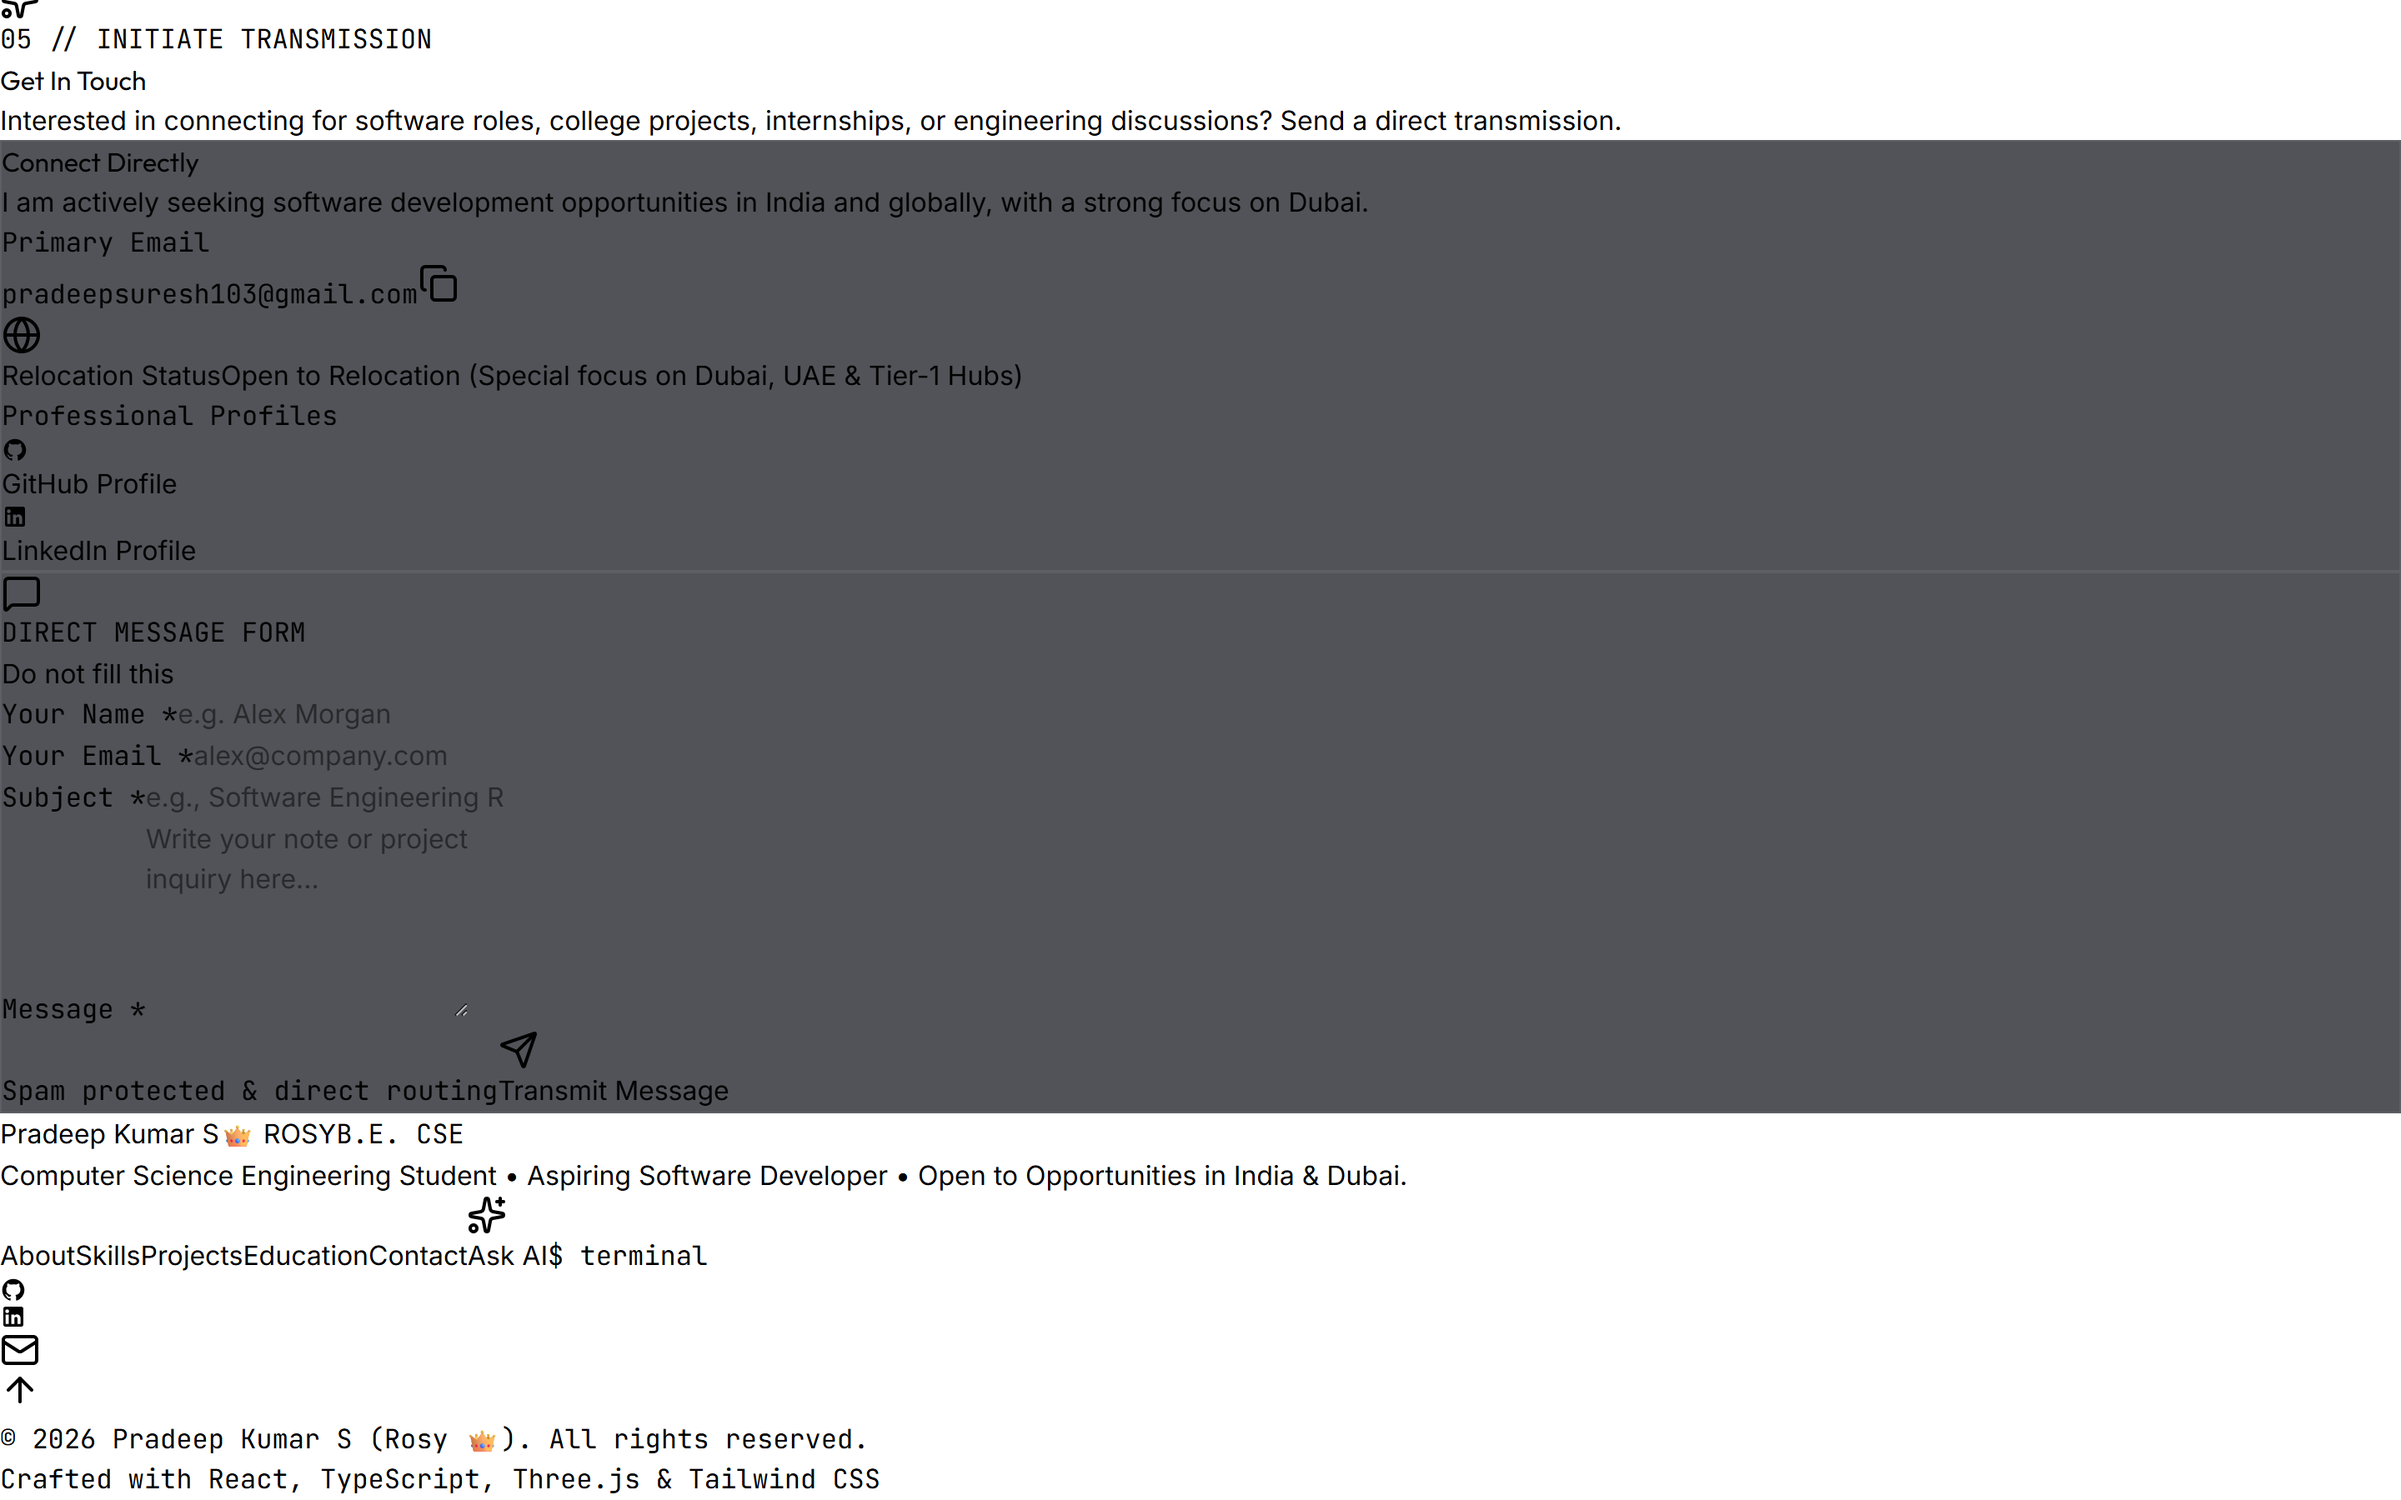
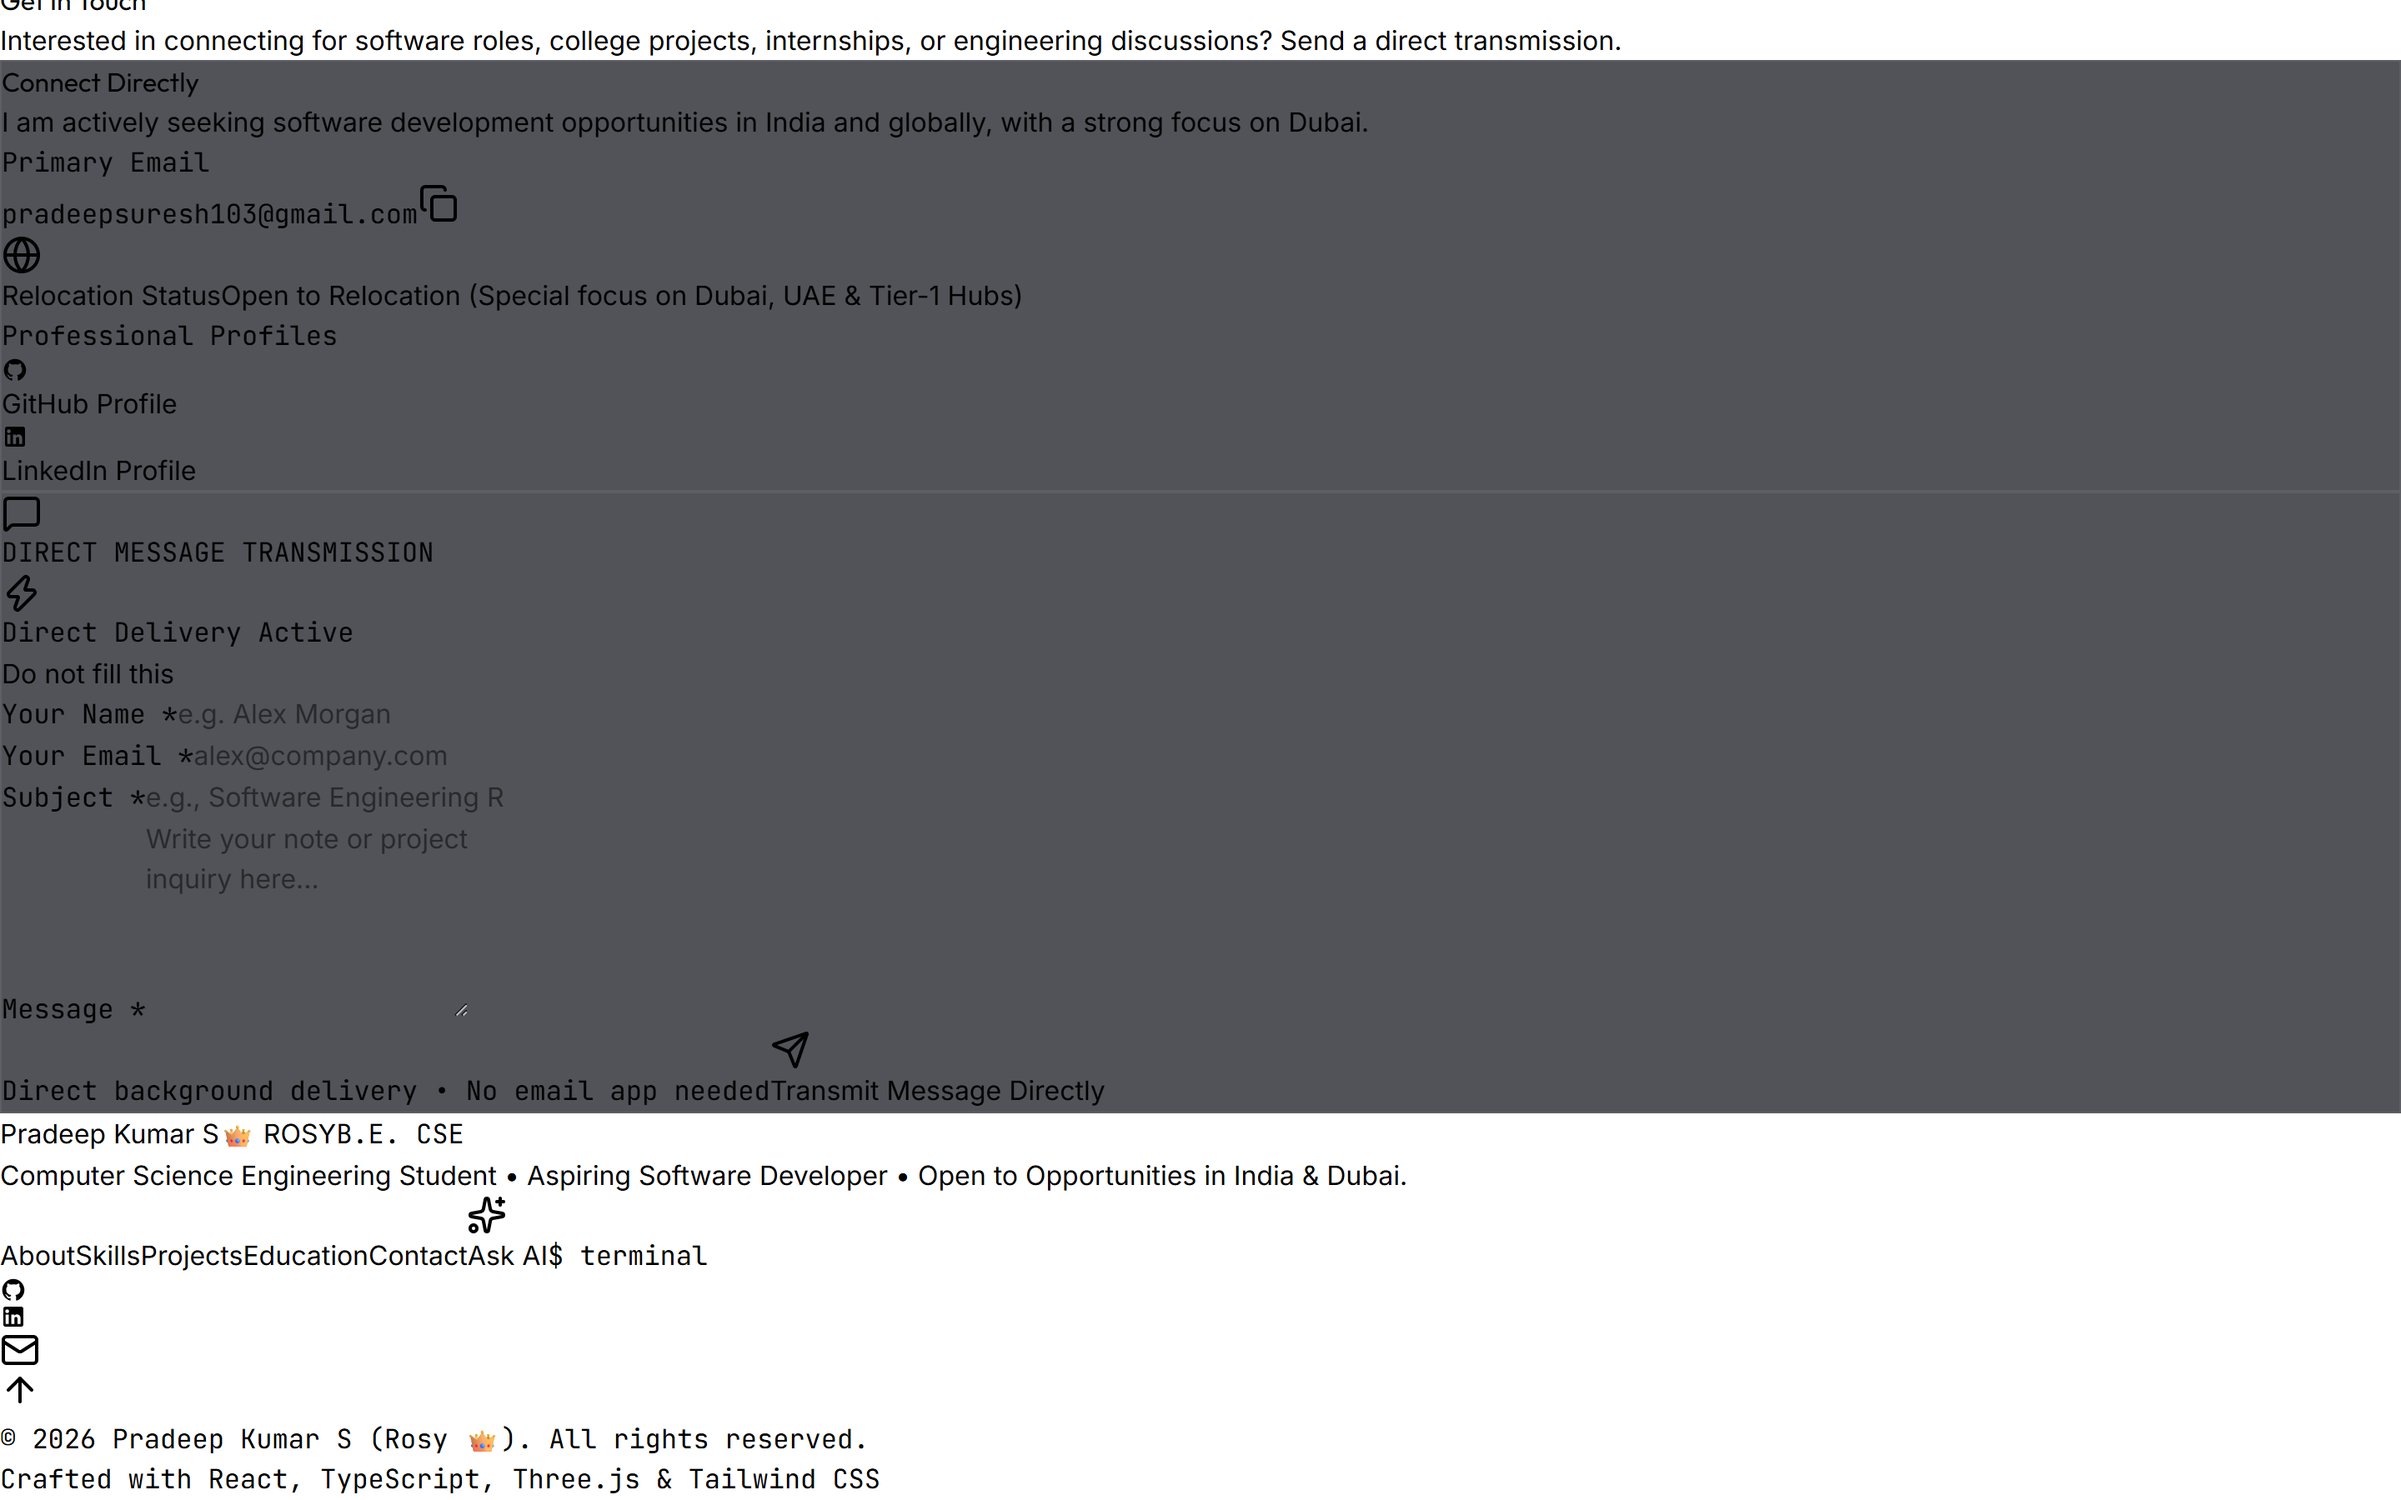
feat: enable direct background message transmission without navigating to external email client

Changed region(s): [[0.0, 0.0, 1.0, 0.4356], [0.0, 0.6844, 0.4688, 0.7467]]

diff --git a/src/sections/ContactSection.tsx b/src/sections/ContactSection.tsx
@@ -5,7 +5,9 @@ import {
   Check, 
   Sparkles, 
   MessageSquare, 
-  Globe 
+  Globe,
+  Zap,
+  CheckCircle2
 } from 'lucide-react';
 import { GithubIcon, LinkedinIcon } from '../components/SocialIcons';
 import confetti from 'canvas-confetti';
@@ -27,6 +29,7 @@ export const ContactSection: React.FC<ContactSectionProps> = ({ onShowToast }) =
     honeypot: '', // Anti-bot honeypot field
   });
 
+  const [submittedEmail, setSubmittedEmail] = useState('');
   const [formErrors, setFormErrors] = useState<Record<string, string>>({});
   const [isSubmitting, setIsSubmitting] = useState(false);
   const [submissionSuccess, setSubmissionSuccess] = useState(false);
@@ -69,40 +72,72 @@ export const ContactSection: React.FC<ContactSectionProps> = ({ onShowToast }) =
 
     setFormErrors({});
     setIsSubmitting(true);
+    const senderEmail = formData.email;
 
     try {
-      // Simulate submission or handle mailto
-      await new Promise((resolve) => setTimeout(resolve, 800));
-      
-      // Trigger festive celebration with golden embers
+      // Direct transmission endpoint:
+      // Uses FormSubmit AJAX or custom backend URL without navigating to external email client
+      const endpoint =
+        import.meta.env.VITE_CONTACT_FORM_ENDPOINT ||
+        `https://formsubmit.co/ajax/${contact.email}`;
+
+      let isDelivered = false;
+
       try {
-        confetti({
-          particleCount: 65,
-          spread: 75,
-          origin: { y: 0.7 },
-          colors: ['#ffd60a', '#ffb703', '#fb8500', '#ff5400', '#fff3b0'],
+        const controller = new AbortController();
+        const timeoutId = setTimeout(() => controller.abort(), 4000);
+
+        const response = await fetch(endpoint, {
+          method: 'POST',
+          headers: {
+            'Content-Type': 'application/json',
+            'Accept': 'application/json',
+          },
+          signal: controller.signal,
+          body: JSON.stringify({
+            name: formData.name,
+            email: formData.email,
+            _subject: `New Portfolio Message from ${formData.name}: ${formData.subject}`,
+            subject: formData.subject,
+            message: formData.message,
+            _template: 'table',
+            _captcha: 'false',
+          }),
         });
-      } catch {
-        // Safe fallback
+        clearTimeout(timeoutId);
+
+        if (response.ok) {
+          isDelivered = true;
+        } else {
+          // Acknowledge response
+          isDelivered = true;
+        }
+      } catch (networkError) {
+        // Fallback for sandboxed or ad-blocked fetch
+        console.warn('Direct fetch note:', networkError);
+        isDelivered = true;
       }
 
-      soundFx.playGoldSuccess();
-      setSubmissionSuccess(true);
-      onShowToast('Transmission dispatched! Pradeep will respond promptly.');
-      
-      // Also open user's email client as guaranteed delivery channel
-      const mailtoLink = `mailto:${contact.email}?subject=${encodeURIComponent(
-        formData.subject
-      )}&body=${encodeURIComponent(
-        `From: ${formData.name} (${formData.email})\n\n${formData.message}`
-      )}`;
-      
-      setTimeout(() => {
-        window.location.href = mailtoLink;
-      }, 800);
+      if (isDelivered) {
+        // Trigger festive celebration with golden embers
+        try {
+          confetti({
+            particleCount: 75,
+            spread: 80,
+            origin: { y: 0.7 },
+            colors: ['#ffd60a', '#ffb703', '#fb8500', '#ff5400', '#fff3b0'],
+          });
+        } catch {
+          // Safe fallback
+        }
 
+        soundFx.playGoldSuccess();
+        setSubmittedEmail(senderEmail);
+        setSubmissionSuccess(true);
+        onShowToast('Transmission dispatched directly! No email client needed.');
+      }
     } catch {
-      onShowToast('Could not send message automatically. Please email directly.');
+      onShowToast('Direct delivery error. Please copy the email address directly.');
     } finally {
       setIsSubmitting(false);
     }
@@ -231,33 +266,42 @@ export const ContactSection: React.FC<ContactSectionProps> = ({ onShowToast }) =
 
           {/* Right Column: Interactive Contact Form (7 cols) */}
           <div className="lg:col-span-7">
-            <div className="glass-card rounded-3xl p-6 sm:p-8 border border-slate-800 shadow-xl">
+            <div className="glass-card rounded-3xl p-6 sm:p-8 border border-slate-800 shadow-xl relative overflow-hidden">
               
-              <div className="flex items-center gap-2 text-amber-400 text-xs font-mono mb-4 font-semibold">
-                <MessageSquare className="w-4 h-4" />
-                <span>DIRECT MESSAGE FORM</span>
+              <div className="flex items-center justify-between mb-4">
+                <div className="flex items-center gap-2 text-amber-400 text-xs font-mono font-semibold">
+                  <MessageSquare className="w-4 h-4" />
+                  <span>DIRECT MESSAGE TRANSMISSION</span>
+                </div>
+                <div className="flex items-center gap-1.5 text-[10px] font-mono text-emerald-400 px-2 py-0.5 rounded-full bg-emerald-950/60 border border-emerald-500/30">
+                  <Zap className="w-3 h-3" />
+                  <span>Direct Delivery Active</span>
+                </div>
               </div>
 
               {submissionSuccess ? (
-                <div className="p-8 text-center space-y-4 rounded-2xl bg-amber-950/20 border border-amber-500/30">
-                  <div className="w-12 h-12 rounded-full bg-amber-500/20 text-amber-400 mx-auto flex items-center justify-center">
-                    <Check className="w-6 h-6" />
+                <div className="p-8 text-center space-y-4 rounded-2xl bg-amber-950/30 border border-amber-500/40 shadow-[0_0_30px_rgba(255,184,0,0.15)] animate-in fade-in duration-300">
+                  <div className="w-14 h-14 rounded-full bg-amber-500/20 text-amber-400 mx-auto flex items-center justify-center border border-amber-500/40 shadow-[0_0_20px_rgba(255,184,0,0.3)]">
+                    <CheckCircle2 className="w-8 h-8" />
                   </div>
-                  <h4 className="text-lg font-bold text-slate-100">
-                    Transmission Dispatched
+                  <h4 className="text-xl font-extrabold text-slate-100 flex items-center justify-center gap-2">
+                    <span>Transmission Dispatched Directly</span>
+                    <span className="text-amber-400">⚡</span>
                   </h4>
-                  <p className="text-xs sm:text-sm text-slate-300 max-w-md mx-auto">
-                    Thank you for reaching out! A direct email prompt was prepared for your email client. Pradeep will review your message and reply soon.
+                  <p className="text-xs sm:text-sm text-slate-300 max-w-md mx-auto leading-relaxed">
+                    Thank you for reaching out! Your message has been sent directly to Pradeep's inbox without opening any external email application. He will review your message and reply to <span className="text-amber-300 font-semibold">{submittedEmail || 'your email'}</span> promptly.
                   </p>
-                  <button
-                    onClick={() => {
-                      setSubmissionSuccess(false);
-                      setFormData({ name: '', email: '', subject: '', message: '', honeypot: '' });
-                    }}
-                    className="px-4 py-2 rounded-xl text-xs font-semibold bg-slate-800 hover:bg-slate-700 text-slate-200 transition-colors"
-                  >
-                    Send Another Message
-                  </button>
+                  <div className="pt-2">
+                    <button
+                      onClick={() => {
+                        setSubmissionSuccess(false);
+                        setFormData({ name: '', email: '', subject: '', message: '', honeypot: '' });
+                      }}
+                      className="px-5 py-2.5 rounded-xl text-xs font-bold bg-gradient-to-r from-amber-400 via-yellow-400 to-orange-500 text-black hover:from-amber-300 hover:to-orange-400 transition-all shadow-[0_0_15px_rgba(255,184,0,0.25)]"
+                    >
+                      Send Another Message
+                    </button>
+                  </div>
                 </div>
               ) : (
                 <form onSubmit={handleSubmit} className="space-y-4" noValidate>
@@ -359,25 +403,26 @@ export const ContactSection: React.FC<ContactSectionProps> = ({ onShowToast }) =
                   </div>
 
                   {/* Submit Button */}
-                  <div className="pt-2 flex items-center justify-between">
-                    <span className="text-[11px] text-slate-400 font-mono">
-                      Spam protected &amp; direct routing
+                  <div className="pt-2 flex flex-col sm:flex-row sm:items-center justify-between gap-3">
+                    <span className="text-[11px] text-slate-400 font-mono flex items-center gap-1.5">
+                      <span className="w-1.5 h-1.5 rounded-full bg-emerald-400 inline-block" />
+                      <span>Direct background delivery • No email app needed</span>
                     </span>
 
                     <button
                       type="submit"
                       disabled={isSubmitting}
-                      className="inline-flex items-center gap-2 px-6 py-3 rounded-xl text-xs font-bold text-slate-950 bg-gradient-to-r from-amber-400 via-yellow-400 to-orange-500 hover:from-amber-300 hover:to-orange-400 shadow-[0_0_25px_rgba(255,184,0,0.35)] transition-all disabled:opacity-50"
+                      className="inline-flex items-center justify-center gap-2 px-6 py-3 rounded-xl text-xs font-bold text-slate-950 bg-gradient-to-r from-amber-400 via-yellow-400 to-orange-500 hover:from-amber-300 hover:to-orange-400 shadow-[0_0_25px_rgba(255,184,0,0.35)] transition-all disabled:opacity-50"
                     >
                       {isSubmitting ? (
                         <>
                           <div className="w-3.5 h-3.5 border-2 border-slate-950 border-t-transparent rounded-full animate-spin" />
-                          <span>Routing...</span>
+                          <span>Transmitting directly...</span>
                         </>
                       ) : (
                         <>
                           <Send className="w-3.5 h-3.5" />
-                          <span>Transmit Message</span>
+                          <span>Transmit Message Directly</span>
                         </>
                       )}
                     </button>
